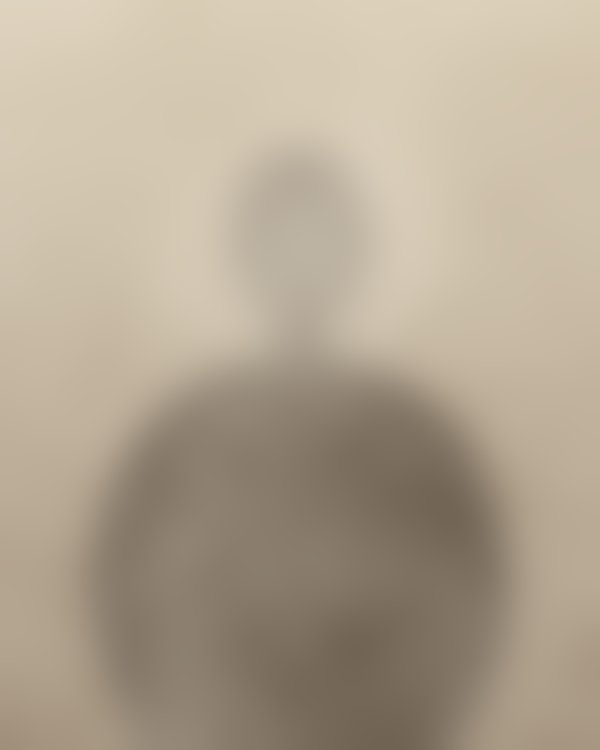
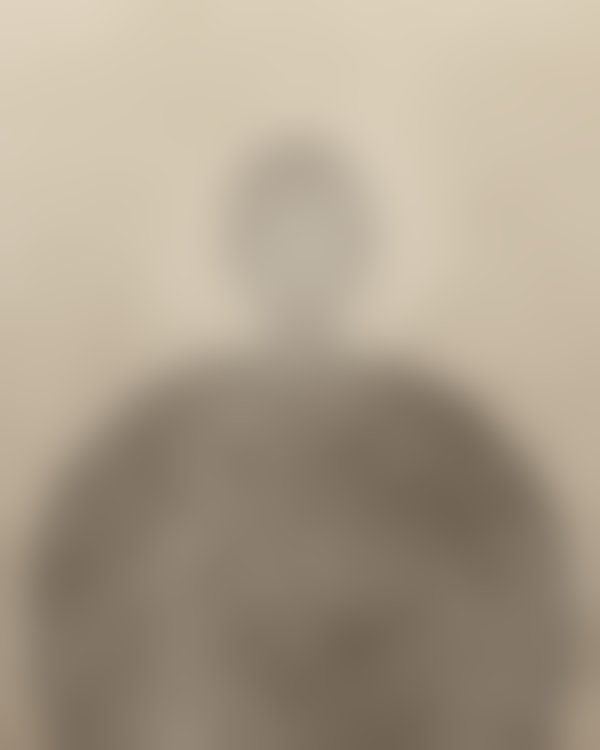
Add files via upload

Changed region(s): [[0.69, 0.4907, 0.99, 1.0], [0.03, 0.4907, 0.3, 1.0]]

diff --git a/realms/edgewood/characters.html b/realms/edgewood/characters.html
@@ -141,7 +141,7 @@
              data-title="OWNER OF HEARTHSTEAD RANCH · RETIRED HORSE TRADER"
              data-places="Hearthstead Ranch: home"
              data-portrait="portraits/old-thomas-halloway.jpg"
-             data-focus="50% 13%" data-zoom="230%">
+             data-focus="46% 0%" data-zoom="219%">
       <h2>Old Thomas Halloway</h2>
       <p><strong>Appearance:</strong> 75 years old, with a weathered face, silver-grey hair, gentle eyes and hands shaped by decades of working with horses. His trusty walking stick is seldom far away.</p>
       <p><strong>Personality:</strong> Kind, wise, compassionate and wonderfully stubborn. A gentleman of firm principles, dry humour and endless patience &#8212; except with foolishness and anyone who forgets the &#8216;Old&#8217; in his name.</p>
@@ -165,7 +165,7 @@
              data-title="FIRE LIEUTENANT · BRIARWICK FIRE DEPARTMENT"
              data-places="Briarwick: home; Briarwick: work"
              data-portrait="portraits/cal-weston.jpg"
-             data-focus="50% 15%" data-zoom="230%">
+             data-focus="63% 0%" data-zoom="163%">
       <h2>Cal Weston</h2>
       <p><strong>Appearance:</strong> 35 years old, 197 cm (6&#8217;6") tall. Broad-shouldered and muscular, with long dirty-blond hair tied in a low ponytail, a slight beard and an unmistakably mischievous grin.</p>
       <p><strong>Personality:</strong> Loud, charismatic, flirtatious and gloriously troublesome. Fearless, quick-witted and fiercely loyal, with a surprisingly perceptive heart beneath all that swagger.</p>
@@ -190,7 +190,7 @@
              data-title="SENIOR FIREFIGHTER · BRIARWICK FIRE DEPARTMENT"
              data-places="Briarwick: home; Briarwick: work"
              data-portrait="portraits/steve-connors.jpg"
-             data-focus="50% 30%" data-zoom="190%">
+             data-focus="50% 0%" data-zoom="206%">
       <h2>Steve Connors</h2>
       <p><strong>Appearance:</strong> 36 years old, with a strong, medium build, neat hair and observant eyes. Quick and precise in his movements, with an understated smile that often conceals a joke.</p>
       <p><strong>Personality:</strong> Calm, practical and deeply loyal. Patient under pressure, quietly perceptive and blessed with a wonderfully dry sense of humour.</p>
@@ -214,7 +214,7 @@
              data-title="FIREFIGHTER &amp; RESCUE SPECIALIST · BRIARWICK FIRE DEPARTMENT"
              data-places="Briarwick: home; Briarwick: work"
              data-portrait="portraits/dani-vega.jpg"
-             data-focus="50% 18%" data-zoom="220%">
+             data-focus="45% 0%" data-zoom="178%">
       <h2>Dani Vega</h2>
       <p><strong>Appearance:</strong> 32 years old, with a lean, muscular build, olive-toned skin, dark curls and sharp, observant eyes. Moves with quiet precision and effortless confidence.</p>
       <p><strong>Personality:</strong> Reserved, perceptive and remarkably composed. A man of few words, dry humour and unwavering loyalty. Patient, resourceful and quietly affectionate with those closest to him.</p>
@@ -240,7 +240,7 @@
              data-title="MAYOR&#8217;S PERSONAL ASSISTANT · BRIARWICK TOWN HALL"
              data-places="Briarwick: home; Briarwick: work"
              data-portrait="portraits/bea-elwood.jpg"
-             data-focus="52% 19%" data-zoom="215%">
+             data-focus="50% 0%" data-zoom="196%">
       <h2>Beatrice &#8216;Bea&#8217; Elwood</h2>
       <p><strong>Appearance:</strong> 27 years old, petite, with sharp features, a neat bob and spectacles that lend authority to her famous disapproving looks. Favours crisp blouses and pressed skirts, though she secretly enjoys elegant dresses and a little lip gloss.</p>
       <p><strong>Personality:</strong> Sharp-witted, outspoken, fiercely organised and loyal. Speaks the truth without sugar-coating it. Beneath her conservative appearance lurk a mischievous streak and surprising appetite for adventure.</p>
